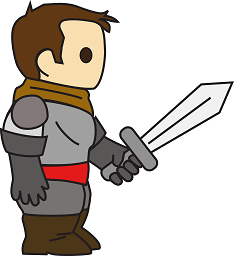
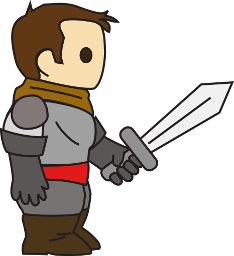
Better unit displaying

diff --git a/DagonGraphicEngine/Player.cs b/DagonGraphicEngine/Player.cs
@@ -22,8 +22,10 @@ namespace DagonGraphicEngine
 
         public override void Draw(GameTime gameTime)
         {
-            _basicEffect.World = Matrix.CreateConstrainedBillboard(Position, Matrix.Invert(_game.Camera.View).Translation, Vector3.Down, null, null)
-                * Matrix.CreateScale(1f/256f, 1f/256f, 1f/256f);
+            _basicEffect.World = Matrix.CreateScale(1f / 256f, 1f / 256f, 1f / 256f)
+                * Matrix.CreateRotationX(MathHelper.ToRadians(180))
+                * Matrix.CreateTranslation(new Vector3(-0.5f,1f,0f))
+                * Matrix.CreateConstrainedBillboard(Position, Matrix.Invert(_game.Camera.View).Translation, Vector3.Up, null, null);
             _basicEffect.View = _game.Camera.View;
             _basicEffect.Projection = _game.Camera.Projection;
 

diff --git a/DagonGraphicEngine.Demo/WorldComponent.cs b/DagonGraphicEngine.Demo/WorldComponent.cs
@@ -22,7 +22,7 @@ namespace DagonGraphicEngine.Demo
                 {
                     new Player(_game, _game.Content.Load<Texture2D>("player"))
                     {
-                        Position = new Vector3(5f,5f,5f)
+                        Position = new Vector3(0f,0f,0f)
                     }
                 }, 
 
